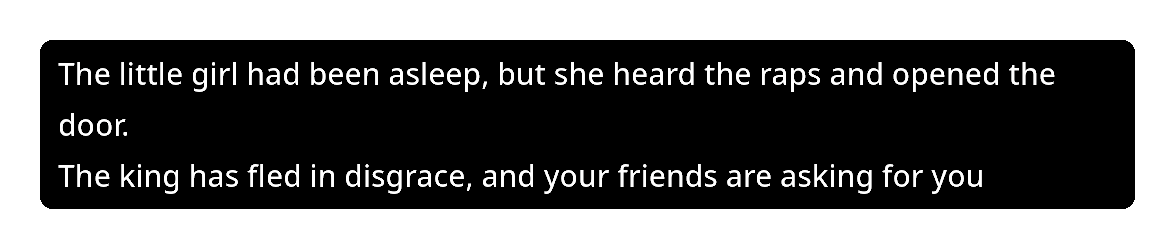
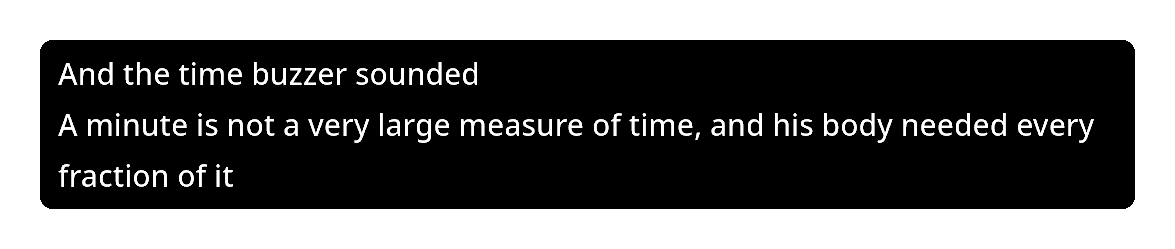
Fix README and use a new screenshot story
README:
- Say up front that NowCaption is English only.
- Add the Flathub remote, git clone, uninstall and troubleshooting steps.
- Explain per-desktop overlay behaviour, including that keyboard shortcuts
  don't reach the layer-shell overlay.
- Add tested Arch package names, plus Debian/Ubuntu and Fedora equivalents.
- Correct the stream-reset figure for the shipped model (4.0% -> 8.4%).
- Replace the done publishing steps with a release checklist, fix the Models
  table and give concrete model export commands.

Benchmark README: the same reset figure, and mark the live CPU comparison as
coming from an earlier prototype.

Screenshot: a different LibriSpeech story, captured from a virtual sink.

Changed region(s): [[0.0306, 0.4498, 0.9498, 0.5904], [0.0306, 0.253, 0.9191, 0.3655], [0.0306, 0.6466, 0.8579, 0.7871]]

diff --git a/README.md b/README.md
@@ -1,120 +1,185 @@
 # NowCaption
 
 Live captions for Linux. NowCaption shows what is being said in videos, calls,
-streams and games, or into your microphone, in a small window that floats above
-your other windows. It is made for people who are deaf or hard of hearing.
+streams and games, or into your microphone, in a small caption window. It is made
+for people who are deaf or hard of hearing.
 
-![Live captions](data/screenshots/captions.png)
+![NowCaption showing two lines of live captions](data/screenshots/captions.png)
 
-- **On your computer only.** Speech is recognised locally. Audio never leaves your
-  computer, it needs no account, and it works offline.
-- **Accurate.** English with punctuation and capital letters. It makes about half
-  as many word errors as the April model used by Live Captions (see [benchmark](benchmark/)).
-- **Fast.** Words appear about a third of a second after they are spoken.
-- **Light.** It uses about a sixth of one CPU core while people talk, and nothing
-  while it is quiet.
+- **Private.** Speech is recognised on your computer. Audio never leaves it, it
+  needs no account, and it works offline.
+- **Accurate.** It writes punctuation and capital letters, and makes about half as
+  many word errors as Live Captions' April model ([benchmark](benchmark/)).
+- **Fast.** Words usually appear 0.35–0.45 seconds after they are spoken.
+- **Light.** It uses about a sixth of one CPU core while people talk, and almost
+  nothing in silence.
+
+**English only for now.**
 
 ## Install
 
-Once it is on Flathub:
+### From Flathub
+
+NowCaption is not on Flathub yet. Once it is accepted:
 
 ```sh
+flatpak remote-add --if-not-exists flathub https://dl.flathub.org/repo/flathub.flatpakrepo
 flatpak install flathub io.github.Techlm77.NowCaption
 ```
 
 Then open **NowCaption** from your app menu.
 
-To build and install it from this repository:
+### Build the Flatpak yourself
 
 ```sh
+git clone https://github.com/Techlm77/NowCaption.git
+cd NowCaption
+flatpak remote-add --user --if-not-exists flathub https://dl.flathub.org/repo/flathub.flatpakrepo
 flatpak install --user flathub org.flatpak.Builder org.gnome.Sdk//51 org.gnome.Platform//51
 ./tools/build-flatpak.sh
 ```
 
+The first build downloads the GNOME SDK, which is large.
+
+### Uninstall
+
+```sh
+flatpak uninstall io.github.Techlm77.NowCaption
+```
+
+Settings are kept in `~/.var/app/io.github.Techlm77.NowCaption`. Delete that
+folder too to remove them.
+
 ## Using it
 
-- Captions start right away, from whatever your computer is playing.
-- **Right-click** the captions to choose desktop audio or the microphone, change
-  the text size or background, put them at the top or bottom of the screen, or
-  copy, save or clear the transcript.
-- **Drag** the captions to move them.
-- Ctrl + plus / minus changes the text size, and Ctrl + Q quits. These work when
-  the window has keyboard focus.
+Captions start straight away, from whatever your computer is playing.
 
-On KDE Plasma, Hyprland, Sway and other wlroots desktops, the captions stay above
-all windows, including full-screen video. On GNOME, press Alt + Space on the
-captions and choose **Always on Top**.
+- **Right-click** the captions for the menu:
+  - Listen to desktop audio or the microphone
+  - Make the text larger or smaller
+  - Make the background more see-through or more solid
+  - Copy, save or clear the transcript
+  - Quit
+- **Drag** the captions to move them.
+
+Settings are remembered between sessions.
+
+### Staying above other windows
+
+How the caption window behaves depends on your desktop:
+
+| Desktop | Behaviour |
+|---|---|
+| KDE Plasma, Hyprland, Sway and other wlroots compositors (Wayland) | Captions float above all windows. Dragging moves them up and down, and the menu can place them at the top or bottom of the screen. The overlay never takes keyboard focus, so use the menu rather than keyboard shortcuts. |
+| GNOME (Wayland) | A normal window. To keep it on top, press Alt + Space while it is focused and choose **Always on Top**. Drag it anywhere. |
+| X11 sessions | A normal window. Use your window manager's "keep above" option. |
+
+In a normal window, Ctrl + plus and Ctrl + minus change the text size, Ctrl + S
+saves the transcript, and Ctrl + Q quits.
+
+### If no captions appear
+
+- Make sure the audio is playing through your **default** output device.
+- After you switch output devices, for example to headphones, choose **Desktop
+  audio** again from the menu. Capture then follows the new device.
+- For the microphone, choose **Microphone** from the menu. It uses your default
+  input device.
 
 ## Run from source
 
-Install your distribution's PyGObject, GTK 4, libadwaita and GStreamer
-(gst-plugins-good) packages. Optionally install gtk4-layer-shell. Then:
+Install the system packages.
 
 ```sh
-./tools/run-dev.sh       # downloads the models and creates .venv on first run
+# Arch
+sudo pacman -S python-gobject gtk4 libadwaita gst-plugins-base gst-plugins-good gtk4-layer-shell
+# Debian / Ubuntu
+sudo apt install python3-gi python3-venv gir1.2-gtk-4.0 gir1.2-adw-1 gir1.2-gstreamer-1.0 \
+    gir1.2-gst-plugins-base-1.0 gstreamer1.0-plugins-good gstreamer1.0-pulseaudio
+# Fedora
+sudo dnf install python3-gobject gtk4 libadwaita gstreamer1-plugins-base gstreamer1-plugins-good
 ```
 
-Tests:
+gtk4-layer-shell is optional. It provides the floating overlay on KDE, Hyprland
+and Sway. Only the Arch command has been tested.
+
+Then run:
 
 ```sh
-PYTHONPATH=src .venv/bin/python tests/test_live.py   # GStreamer capture + engine, from source
-./tests/test_flatpak.sh                              # the same, inside the installed Flatpak
+./tools/run-dev.sh
 ```
 
-Both tests play two LibriSpeech clips into a private virtual sink, so nothing is
-heard. Setting `NOWCAPTION_SOURCE=<pulse source name>` makes the app caption any
-source.
+On the first run it downloads the models into `models/` and creates `.venv`.
+
+`NOWCAPTION_SOURCE=<source name>` makes the app caption any PulseAudio or PipeWire
+source. Run `pactl list short sources` to see the names.
+
+### Tests
+
+```sh
+PYTHONPATH=src .venv/bin/python tests/test_live.py   # from source (run tools/run-dev.sh once first)
+./tests/test_flatpak.sh                              # inside the installed Flatpak
+```
+
+Both tests play two LibriSpeech clips into a private virtual sink, so nothing
+plays out loud. They need `pactl` and `paplay` (pipewire-pulse or pulseaudio-utils).
 
 ## How it works
 
 `src/nowcaption/audio.py` captures 16 kHz mono audio with GStreamer's PulseAudio
-source. That source works on PipeWire and inside Flatpak. `engine.py` streams the
-audio into a sherpa-onnx transducer and restores punctuation and casing on each
-line. Two decisions came from measurements:
+source, which also works on PipeWire and inside Flatpak. `engine.py` streams that
+audio into a sherpa-onnx transducer, then restores punctuation and casing on each
+line. Two choices came from measurements:
 
-- **The model's stream is never reset at pauses.** A reset drops the first words
-  of the next phrase, and doing it at every pause made 50% more errors (4.0% to
-  about 6%). Pauses only start a new caption line.
-- **Digital silence is not processed.** The model's last words are flushed once,
-  then it waits.
+- **The model's stream is never reset at pauses.** A reset loses the first words
+  of the next phrase. Resetting at every pause more than doubled the word error
+  rate on continuous speech, from 4.0% to 8.4%. Pauses only start a new caption
+  line.
+- **Digital silence is not processed.** When the audio goes completely silent,
+  the last words are flushed once and the model waits.
 
 ## Models
 
-| | |
-|---|---|
-| Speech | NVIDIA `stt_en_fastconformer_hybrid_large_streaming_multi`, CC-BY-4.0, exported to ONNX int8 at 80 ms lookahead by `tools/export-model.py` |
-| Punctuation and casing | Edge-Punct-Casing CNN-BiLSTM, Apache-2.0, packaged by k2-fsa |
+| Part | Model | License |
+|---|---|---|
+| Speech recognition | NVIDIA [`stt_en_fastconformer_hybrid_large_streaming_multi`](https://huggingface.co/nvidia/stt_en_fastconformer_hybrid_large_streaming_multi), exported to ONNX int8 with 80 ms lookahead | CC-BY-4.0 |
+| Punctuation and casing | [Edge-Punct-Casing](https://github.com/frankyoujian/Edge-Punct-Casing) CNN-BiLSTM, packaged by k2-fsa | Apache-2.0 |
 
-See [MODEL-LICENSES.md](MODEL-LICENSES.md).
+[MODEL-LICENSES.md](MODEL-LICENSES.md) lists everything bundled in the Flatpak.
 
-The exported speech model, `nowcaption-fastconformer-en-80ms-cc-by-v1.tar.bz2`,
-is attached to the GitHub release `models-v1`, and the Flatpak manifest downloads
-it from there. To rebuild it, run `tools/export-model.py --lookahead 1`. That
-needs `nemo_toolkit[asr]`, `onnx` and `onnxruntime`. Then package the four files
-and README as in that release.
+The exported speech model is attached to the
+[`models-v1` release](https://github.com/Techlm77/NowCaption/releases/tag/models-v1),
+and the Flatpak build downloads it from there. To recreate it:
 
-## Publishing to Flathub
+```sh
+python3.12 -m venv .venv-export     # NeMo supports Python 3.10–3.12
+.venv-export/bin/pip install torch --index-url https://download.pytorch.org/whl/cpu
+.venv-export/bin/pip install "nemo_toolkit[asr]" onnx onnxruntime
+mkdir -p export && cd export
+../.venv-export/bin/python ../tools/export-model.py --lookahead 1
+```
 
-1. Push this repository to `github.com/Techlm77/NowCaption`.
-2. Create the release `models-v1` and attach
-   `dist/nowcaption-fastconformer-en-80ms-cc-by-v1.tar.bz2`. Check that its
-   SHA-256 matches the manifest:
[1 lines of base64/hex data omitted]
-3. Tag the app release (`git tag v1.0.0 && git push --tags`), then run
-   `tools/make-flathub-manifest.sh v1.0.0`.
-4. Check it with Flathub's linter:
+This writes `encoder.int8.onnx`, `decoder.int8.onnx`, `joiner.int8.onnx` and
+`tokens.txt`. The release archive holds those four files and a README in a folder
+named `nowcaption-fastconformer-en-80ms-cc-by-v1`.
+
+## Releasing a new version (maintainers)
+
+1. Add a `<release>` entry to `data/io.github.Techlm77.NowCaption.metainfo.xml`
+   and set `__version__` in `src/nowcaption/__init__.py`.
+2. Tag and push: `git tag v1.0.0 && git push --tags`.
+3. Run `tools/make-flathub-manifest.sh v1.0.0`. It writes
+   `flathub/io.github.Techlm77.NowCaption.yml` with the source pinned to that tag.
+4. Check it:
    `flatpak run --command=flatpak-builder-lint org.flatpak.Builder manifest flathub/io.github.Techlm77.NowCaption.yml`
-5. Follow https://docs.flathub.org/docs/for-app-authors/submission: fork
-   `flathub/flathub`, branch from `new-pr`, add the generated manifest and open a
-   pull request.
+5. For the first release, follow the
+   [Flathub submission guide](https://docs.flathub.org/docs/for-app-authors/submission).
+   Later releases go to the app's own repository on Flathub.
 
-The `appid-url-not-reachable` and screenshot errors from the linter go away once
-steps 1 and 2 are done. The Python dependencies are pinned upstream wheels for
-x86_64 and aarch64. Building sherpa-onnx and ONNX Runtime from source inside
-flatpak-builder would take much more work. If a Flathub reviewer asks for source
-builds, that is the part to change.
+The Python dependencies are pinned upstream wheels for x86_64 and aarch64, because
+building sherpa-onnx and ONNX Runtime from source in flatpak-builder takes much
+more work. If Flathub reviewers ask for source builds, that is the part to change.
 
 ## License
 
-MIT for NowCaption's code. The bundled models and libraries keep their own
+NowCaption's code is MIT licensed. The bundled models and libraries keep their own
 licenses, listed in [MODEL-LICENSES.md](MODEL-LICENSES.md).

diff --git a/benchmark/README.md b/benchmark/README.md
@@ -25,10 +25,11 @@ blocks, as live captioning does, with 1.5 s of silence after each clip.
 The table runs each clip from a fresh stream, which handicaps every engine
 equally. On continuous audio (30 clips joined by 0.4 s gaps, `endpoint_test.py`),
 NowCaption's model reaches **4.0%** WER. Resetting the stream at every pause
-raises it to about 6%, which is why the app never resets at pauses.
+raises it to 8.4%, which is why the app never resets at pauses.
 
-On real desktop audio, run side by side for 60 s, NowCaption used 0.17 of a core
-and 352 MB. Live Captions used 0.42 of a core and 621 MB.
+On real desktop audio, an early prototype with the same engine (and the NGC model)
+ran side by side with Live Captions for 60 s. The prototype used 0.17 of a core and
+352 MB; Live Captions used 0.42 of a core and 621 MB.
 
 Screened and rejected:
 - Parakeet unified 0.6B, 240 ms: slower than real time on 2 threads.
